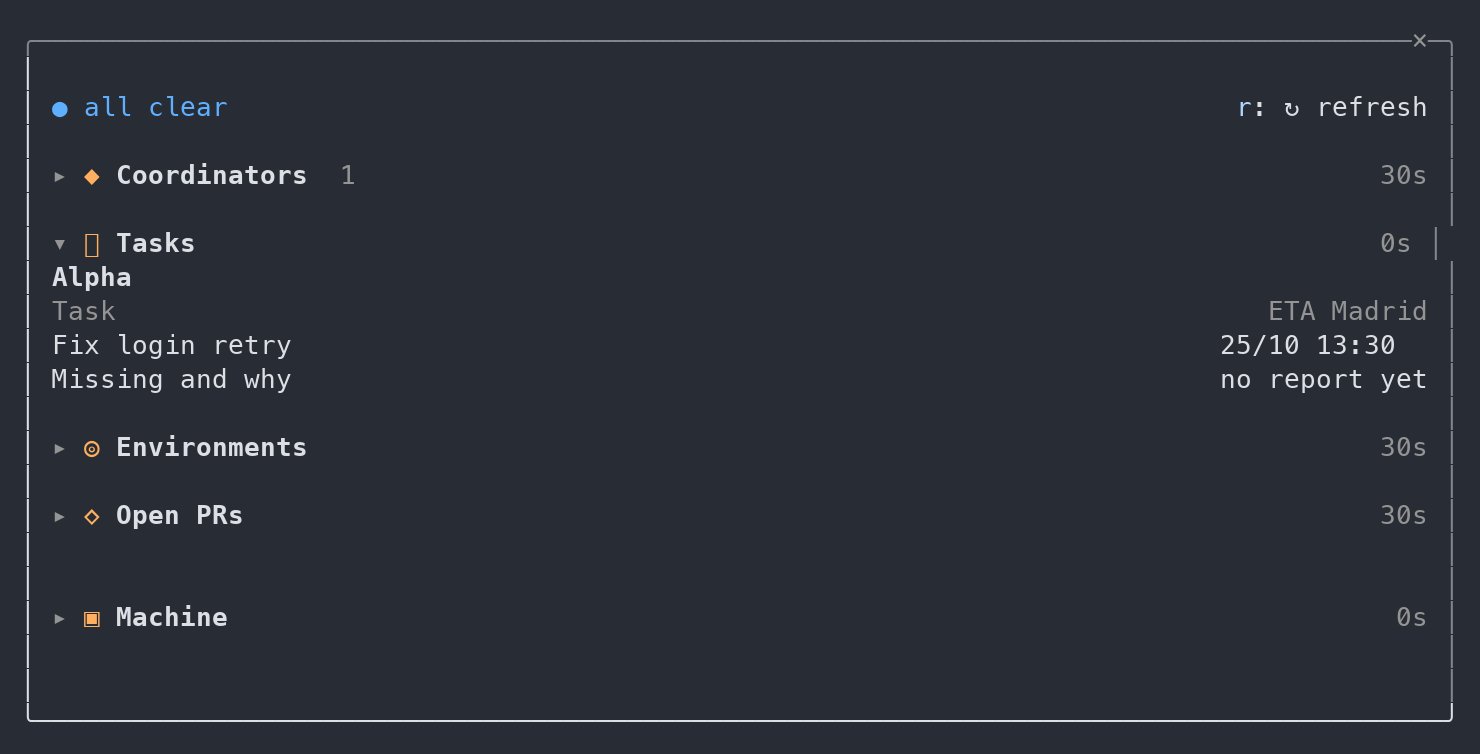
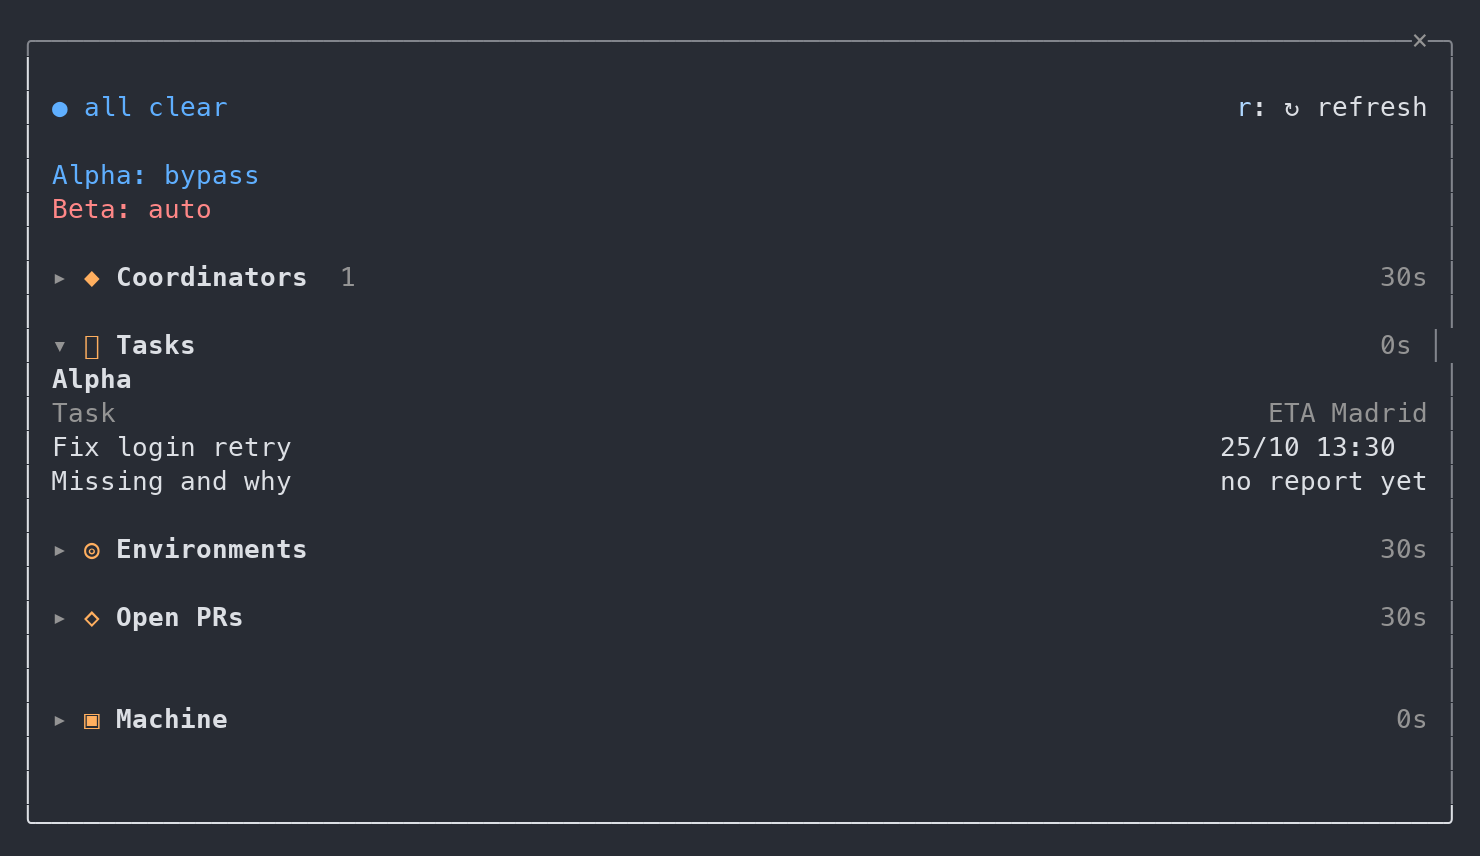
fix: keep run modes visible above collapsed sections

diff --git a/hooks/register.tsx b/hooks/register.tsx
@@ -351,11 +351,14 @@ export const register: Register = (on, options) => {
             {permission ? <Text color="error" weight="bold">■ {permission} permission  </Text> : ''}
             {needYou ? <Text color="error" weight="bold">◐ {needYou} need you  </Text> : ''}
             {permission || needYou || stale || down ? '' : <Text color="success">● all clear</Text>}
-            {stale ? <Text color="warning">◌ {stale} stale  </Text> : ''}
+            {stale ? <Text color="warning">{stale} without recent output  </Text> : ''}
             {down ? <Text color="error">▼ {down} env down</Text> : ''}
           </Text>,
           <Button key="refresh" plain hotkey="r" label="↻ refresh" onPress={() => { lastRemote = 0; void tick($).catch(() => {}) }} />,
         )}
+        <Box flexDirection="column">
+          {coords.map(c => <Text color={c.runMode === 'bypass' ? 'success' : 'error'} wrap="wrap">{mask(c.name)}: {c.runMode ?? 'no report yet'}</Text>)}
+        </Box>
         {section('coordinators', '◆', 'Coordinators', s.coordinators, () =>
           coords.map(c => {
             // Done rows fold into one count line; the rest show one row each.
@@ -374,7 +377,6 @@ export const register: Register = (on, options) => {
                     )}
                   </Text>,
                 )}
-                {row(<Text color={c.runMode === 'bypass' ? 'success' : 'error'}>Run mode: {c.runMode ?? 'no report yet'}</Text>, undefined, 2)}
                 {active.map(worker)}
                 {done ? row(<Text color="subtle" dimColor>✓ +{done} done</Text>, undefined, 2) : ''}
                 {c.workers.length ? '' : row(<Text dimColor>no active workers</Text>, undefined, 2)}
@@ -554,7 +556,7 @@ export const register: Register = (on, options) => {
         <Text>● {workers.filter(x => x.state !== 'done' && x.state !== 'failed').length} workers  </Text>
         {permission ? <Text color="error" weight="bold">■ {permission} permission  </Text> : ''}
         {input ? <Text color="error" weight="bold">◐ {input} need you  </Text> : ''}
-        {stale ? <Text color="warning">◌ {stale} stale  </Text> : ''}
+        {stale ? <Text color="warning">{stale} without recent output  </Text> : ''}
         <Text color={down ? 'error' : 'success'}>{down ? '▼' : '▲'} envs {envs.length - down}/{envs.length}  </Text>
         <Text>◇ {prs} PRs  </Text>
         {m ? <Text color={machineLevel(m, s.config.value.limits)}>▣ load {m.load.toFixed(0)}/{m.cores} mem {m.memoryPercent}% swap {m.swapUsedGB.toFixed(1)}G  </Text> : ''}

diff --git a/tests/orchestrator-bar.test.tsx b/tests/orchestrator-bar.test.tsx
@@ -428,7 +428,7 @@ test('the band sums it up while the pane is closed', async ($, on) => {
   await $.session.start({ cwd: '/', surface: 'terminal', isInteractive: true })
   const band = await $.ui.mount({ plugin: 'orchestrator-bar', surface: 'terminal', component: 'AbovePrompt', props: { hasSurvey: false, isWorking: false, maxRows: 4, bodyColumns: 160 } } as any)
   const text = (await band.find({ type: 'Text', text: /◆ orchestrator-bar/ }))?.text ?? ''
-  expect(text).toMatch(/● 4 workers  ■ 2 permission  ◐ 1 need you  ◌ 1 stale  ▲ envs 1\/1  ◇ 1 PRs  ▣ load 11\/18 mem 52% swap 5\.8G/)
+  expect(text).toMatch(/● 4 workers  ■ 2 permission  ◐ 1 need you  1 without recent output  ▲ envs 1\/1  ◇ 1 PRs  ▣ load 11\/18 mem 52% swap 5\.8G/)
   await band.unmount()
 })
 
@@ -572,7 +572,7 @@ for (const width of [24, 44, 90]) {
     expect((await ui.find({ type: 'Link', text: /pull\/12/ }))?.props.href).toBe('https://github.com/example-org/web/pull/12')
     await ui.press({ key: 'expand-task-term_t1' })
     expect(await ui.find({ type: 'Text', text: /^Left:/ })).toBe(undefined)
-    expect((await ui.find({ type: 'Text', text: /^Run mode:/ }))?.props.color).toBe('error')
+    expect((await ui.find({ type: 'Text', text: /^Alpha: no report yet$/ }))?.props.color).toBe('error')
     await ui.unmount()
   })
 }
@@ -583,4 +583,16 @@ test('a sub-coordinator keeps its own status row when its terminal is excluded f
   expect(groups[0]?.coordinator).toBe('Root / Sub')
   expect(groups[0]?.rows[0]?.terminal).toBe('term_sub')
   expect(groups[0]?.rows[0]?.task).toBe('Fix login')
+})
+
+
+test('run-mode lines stay visible when Coordinators is collapsed', async ($, on) => {
+  engine(on)
+  await $.session.start({ cwd: '/', surface: 'terminal', isInteractive: true })
+  const ui = await $.ui.mount({ ...PANE, surface: 'terminal' })
+  await ui.press({ key: 'toggle-coordinators' })
+  expect((await ui.find({ type: 'Text', text: /^Alpha: no report yet$/ }))?.props.color).toBe('error')
+  expect(await ui.find({ type: 'Text', text: /1 without recent output/ })).toBeDefined()
+  expect(await ui.find({ type: 'Text', text: /◌ 1 stale/ })).toBe(undefined)
+  await ui.unmount()
 })

diff --git a/README.md b/README.md
@@ -85,7 +85,8 @@ migration, only the new path is read. Restart the configured session after updat
    shows once, with its newest state; done workers fold into one `+N done` line.
    A coordinator or worker whose screen shows a permission dialog is red and
    listed first. Input rows are red, stale rows are yellow. Each coordinator also
-   shows its observed run mode; every mode other than bypass is red.
+   shows its observed run mode at the top, even when the section is collapsed;
+   every mode other than bypass is red.
 2. **Tasks**: short task title and ETA in Madrid time, grouped by coordinator and
    sub-coordinator. Click to open the full report: PR link, state, remaining work,
    last update, terminal ID, coordinator and model. Workers write

diff --git a/docs/task-status.md b/docs/task-status.md
@@ -50,7 +50,8 @@ Their ETA and update time stay unreported unless supplied by a task status file.
 There is no BENCH parser.
 
 Each configured coordinator, including entries with `parent`, shows a run-mode
-line read from the bottom of its terminal screen. Recognized status labels are
+line at the top of the panel, always visible even when Coordinators is collapsed,
+read from the bottom of its terminal screen. Recognized status labels are
 `bypass`, `auto`, `plan`, and `manual`. Bypass is green; every other value,
 including `no report yet`, is red. Role documents describe expected modes;
 they never establish the mode actually running. Keep configured terminal handles
